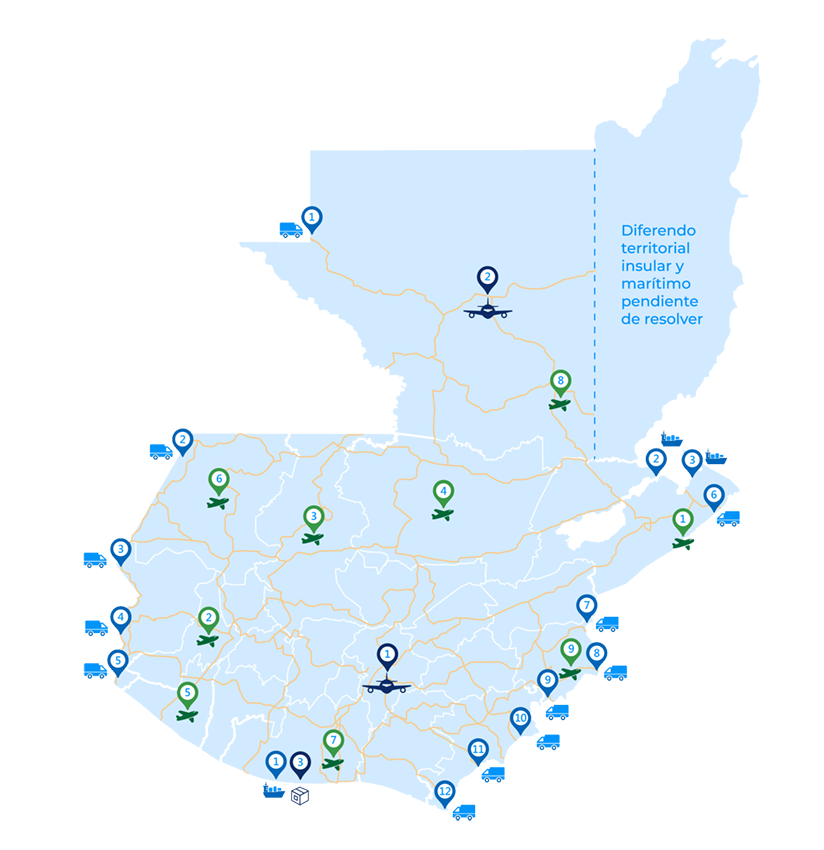
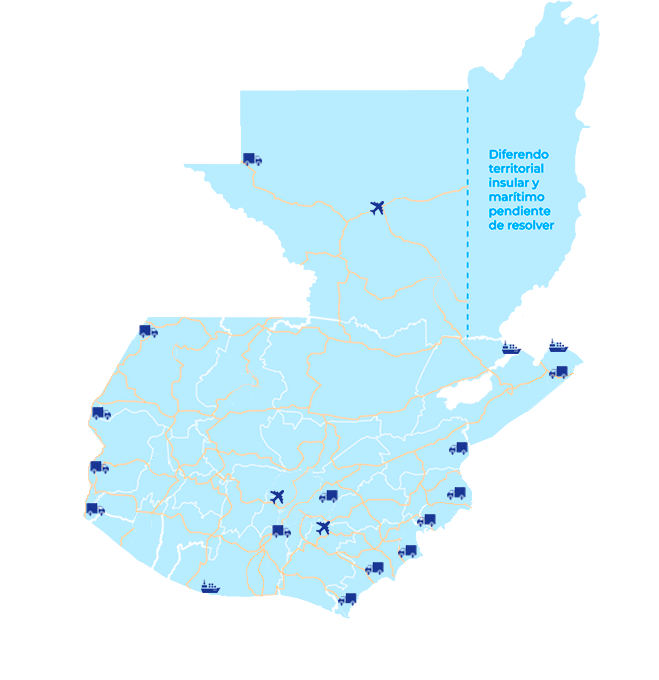
mapa aduanas

diff --git a/src/app/vistas/indicadores-logisticos/indicadores-logisticos.component.ts b/src/app/vistas/indicadores-logisticos/indicadores-logisticos.component.ts
@@ -14,6 +14,7 @@ import { NgModule, CUSTOM_ELEMENTS_SCHEMA }      from '@angular/core';
 import * as $ from 'jquery';
 import { html } from 'd3';
 import { environment } from "../../../environments/environment";
+import { NgbModal } from '@ng-bootstrap/ng-bootstrap';
 
 //import * as d3 from 'd3';
 
@@ -24,6 +25,155 @@ import { environment } from "../../../environments/environment";
   
 })
 export class IndicadoresLogisticosComponent implements OnInit {
+  aduanasInfo=[
+    {
+     "id": 1,
+     "nombre": "Aduana El Ceibo",
+     "depto": "Petén",
+     "tipo": "Terrestre",
+     "direccion": "Kilómetro 657.5 de la Carretera Departamental número RD-PET-13, del Municipio de la Libertad, del Departamento de El Peten"
+    },
+    {
+     "id": 2,
+     "nombre": "Aduana San Cristobal",
+     "depto": "Jutiapa",
+     "tipo": "Terrestre",
+     "direccion": "Kilómetro 175 de la Carretera Centroamericana número CA-1 Or. Aldea San Cristóbal de la Frontera, Municipio de Atescatempa, Departamento de Jutiapa"
+    },
+    {
+     "id": 3,
+     "nombre": "Aduana Pedro De Alvarado",
+     "depto": "Jutiapa",
+     "tipo": "Terrestre",
+     "direccion": "Kilómetro 166 de la Carretera Centroamericana número CA-2 Or. Ciudad Pedro de Alvarado, Municipio de Moyuta, Departamento de Jutiapa"
+    },
+    {
+     "id": 4,
+     "nombre": "Aduana Integrada El Florido",
+     "depto": "Chiquimula",
+     "tipo": "Terrestre",
+     "direccion": "Kilómetro 228 de la Carretera Centroamericana número CA-11. Caserío El Florido, Municipio de Camotán, Departamento de Chiquimula"
+    },
+    {
+     "id": 5,
+     "nombre": "Aduana Integrada Agua Caliente",
+     "depto": "Chiquimula",
+     "tipo": "Terrestre",
+     "direccion": "Kilómetro 240 de Carretera Centroamericana número CA-10. Aldea Agua Caliente, Municipio de Esquipulas, Departamento de Chiquimula"
+    },
+    {
+     "id": 6,
+     "nombre": "Aduana La Ermita",
+     "depto": "Chiquimula",
+     "tipo": "Terrestre",
+     "direccion": "Kilómetro 237 de la Carretera Centroamericana número CA-12. Aldea Anguiatú, Municipio Concepción Las Minas, Departamento de Chiquimula"
+    },
+    {
+     "id": 7,
+     "nombre": "Aduana Integrada Corinto",
+     "depto": "Izabal",
+     "tipo": "Terrestre",
+     "direccion": "Kilometro 303 entrada por aldea Entre Rios Puerto Barrios, Izabal"
+    },
+    {
+     "id": 8,
+     "nombre": "Aduana Valle Nuevo",
+     "depto": "Jutiapa",
+     "tipo": "Terrestre",
+     "direccion": "Kilómetro 129 de la Carretera Centroamericana número CA-8. Caserío Valle Nuevo, Municipio de Jalpatagua, Departamento de Jutiapa"
+    },
+    {
+     "id": 9,
+     "nombre": "Aduana Santo Tomas De Castilla",
+     "depto": "Izabal",
+     "tipo": "Marítima",
+     "direccion": "Dentro del Puerto Maritimo Puerto Santo Tomas de Castilla en la calle principal al muelle a la altura del Kilometro 298 de la carretera Centroamericana CA-9 norte, municipio de Puerto Barrios, Departamento de Izabal"
+    },
+    {
+     "id": 10,
+     "nombre": "Aduana Tecun Uman I",
+     "depto": "San Marcos",
+     "tipo": "Terrestre",
+     "direccion": "2ª Av. y 7ª calle 7-52 zona 2, Municipio de Tecún Umán, Departamento de San Marcos"
+    },
+    {
+     "id": 11,
+     "nombre": "Aduana Puerto Barrios",
+     "depto": "Izabal",
+     "tipo": "Marítima",
+     "direccion": "Dentro del Puerto marítimo Puerto Barrios en la 9ª Calle Final, Colonia Las Champas, Municipio de Puerto Barrios, Departamento de Izabal"
+    },
+    {
+     "id": 12,
+     "nombre": "Aduana Express Aereo",
+     "depto": "Guatemala",
+     "tipo": "Aérea",
+     "direccion": "15 calle “A” y 9a. Avenida frente al Club Aurora zona 13"
+    },
+    {
+     "id": 13,
+     "nombre": "Aduana Melchor De Mencos",
+     "depto": "Petén",
+     "tipo": "Terrestre",
+     "direccion": "Kilometro 557 de la carretera Centroamericana número CA-13 Barrio Fallabon, Melchor de Mencos, Departamento de Petén"
+    },
+    {
+     "id": 14,
+     "nombre": "Aduana El Carmen",
+     "depto": "San Marcos",
+     "tipo": "Terrestre",
+     "direccion": "Kilómetro 290 de la Carretera Centroamericana número CA-2-Occ., Aldea El Carmen, Municipio de Malacatán, Departamento de San Marcos"
+    },
+    {
+     "id": 15,
+     "nombre": "Aduana Puerto Quetzal",
+     "depto": "Escuintla",
+     "tipo": "Marítima",
+     "direccion": "Kilómetro 111 de la Carretera Centroamericana número CA-9 Sur, Puerto Quetzal. Municipio de San José, Departamento de Escuintla"
+    },
+    {
+     "id": 16,
+     "nombre": "Aduana Central",
+     "depto": "Guatemala",
+     "tipo": "Terrestre",
+     "direccion": "Aduana terrestre, 26 Calle 7-25 zona 11, Ciudad de Guatemala., Guatemala"
+    },
+    {
+     "id": 17,
+     "nombre": "Aduana La Mesilla",
+     "depto": "Huehuetenango",
+     "tipo": "Terrestre",
+     "direccion": "Kilómetro 336 de la Carretera Centroamericana número CA-1-Occ. Aldea La Mesilla, Municipio La Democracia, Departamento de Huehuetenango"
+    },
+    {
+     "id": 18,
+     "nombre": "Aduana Tikal",
+     "depto": "Petén",
+     "tipo": "Aérea",
+     "direccion": "Edificio “A”. Aeropuerto Internacional Mundo Maya. Santa Elena, Flores, Departamento de El Petén"
+    },
+    {
+     "id": 19,
+     "nombre": "Aduana Fardos Postales",
+     "depto": "Guatemala",
+     "tipo": "Terrestre",
+     "direccion": "7a. Av. 11-69 zona 1 2o. Nivel, Edificio El Correo Oficina 203, Ciudad de Guatemala, Guatemala"
+    },
+    {
+     "id": 20,
+     "nombre": "Aduana Central De Aviacion",
+     "depto": "Guatemala",
+     "tipo": "Aérea",
+     "direccion": "Aeropuerto Internacional La Aurora, 1er. Nivel, zona 13, Ciudad de Guatemala, Guatemala"
+    },
+    {
+     "id": 21,
+     "nombre": "Aduana Tecun Umán II",
+     "depto": "San Marcos",
+     "tipo": "Terrestre",
+     "direccion": "Km. 251 Carretera Aldea El Triunfo, Tecún Umán, Departamento de San Marcos"
+    }
+   ];
   name = "Angular";
   element = false;
   nombreDepartamento = "";
@@ -42,7 +192,7 @@ export class IndicadoresLogisticosComponent implements OnInit {
   videoplayer!: ElementRef;
   
   
-  constructor(@Inject(PLATFORM_ID) private platformId: Object, private zone: NgZone ,private activatedRoute: ActivatedRoute, private http: HttpClient ) { 
+  constructor(@Inject(PLATFORM_ID) private platformId: Object, private zone: NgZone ,private activatedRoute: ActivatedRoute, private http: HttpClient, private modalService:NgbModal ) { 
     this.activatedRoute.params.subscribe(params => {
      // let deptoId = params['id'];
      
@@ -272,7 +422,58 @@ public toggleVideo(id:number) {
     if (myVideo.paused) myVideo.play();
     else myVideo.pause();
 }
+public infoAduana(id:number){
+  var index =id-1;
+  console.log(id);
+  console.log(this.aduanasInfo[0]);
+  console.log(this.aduanasInfo[index].id);
+  console.log(this.aduanasInfo[index].nombre);
+  console.log(this.aduanasInfo[index].depto);
+  console.log(this.aduanasInfo[index].tipo);
+  console.log(this.aduanasInfo[index].direccion);
+  var informacion ="Nombre:"+ this.aduanasInfo[index].nombre;
+  informacion +="Departamento:"+ this.aduanasInfo[index].depto;
+  informacion +="Tipo:"+ this.aduanasInfo[index].tipo;
+  informacion +="Direccion:"+ this.aduanasInfo[index].direccion;
+  
+  this.openVerticallyCentered(informacion);
+}
 
+openBackDropCustomClass(Infoaduana: any) {
+  this.modalService.open(Infoaduana, { backdropClass: 'light-blue-backdrop' });
+}
+
+openWindowCustomClass(Infoaduana: any) {
+  this.modalService.open(Infoaduana, { windowClass: 'dark-modal' });
+}
+
+openSm(Infoaduana: any) {
+  this.modalService.open(Infoaduana, { size: 'sm' });
+}
+
+openLg(Infoaduana: any) {
+  this.modalService.open(Infoaduana, { size: 'lg' });
+}
+
+openXl(Infoaduana: any) {
+  this.modalService.open(Infoaduana, { size: 'xl' });
+}
+
+
+openVerticallyCentered(Infoaduana: any) {
+  this.modalService.open(Infoaduana, { centered: true });
+}
+
+openScrollableInfoaduana(longInfoaduana: any) {
+  this.modalService.open(longInfoaduana, { scrollable: true ,size: 'xl'});
+}
+
+openModalDialogCustomClass(Infoaduana: any) {
+  this.modalService.open(Infoaduana, { modalDialogClass: 'dark-modal' });
+}
+cerrarModal = (usuario?: any):void => {
+this.modalService.dismissAll(usuario);
+}
 
 }
 

diff --git a/src/app/vistas/indicadores-logisticos/indicadores-logisticos.component.html b/src/app/vistas/indicadores-logisticos/indicadores-logisticos.component.html
@@ -255,24 +255,60 @@
      background-size: cover;
      height: 160vh;
      width:100%;">
-  <div class="container-fluid">
-
-    <div class="row d-flex justify-content-center ml-2 text-center" style="padding-top: 0em;">
-
+  <div class="container ">
+    
+    <div class="row text-center " style="padding-top: 0em;">
       <h1 class="blue-title text-uppercase">aduanas y puertos</h1>
-      <h3 class="blue-title text-uppercase fs-5 text-danger mb-1" style="cursor: pointer;" (click)="menuLogistica( $event );">Regresar al menú</h3>
-      <div class="col-lg-8 col-md-12 col-sm-12">
-        <div class="container ">
-          <img  src="assets/images/varios/aduanas.png" usemap="#workmap" width="100%" class="img-fluid">
-          <map name="workmap" id="ImageMapsCom-image-maps-2022-12-13-211159">
-            <area  alt="" title="" href="http://www.image-maps.com/" shape="rect" coords="898,665,1050,796" style="outline:none;" target="_blank" onclick="modalAduana"    />
-            <area shape="rect" coords="2678,2766,2680,2768" alt="Image Map" style="outline:none;" title="Image Map" href="https://www.image-maps.com/" />
-            </map>
+    <h3 class="blue-title text-uppercase fs-5 text-danger mb-1" style="cursor: pointer;" (click)="menuLogistica( $event );">Regresar al menú</h3>
+    <div class="col-lg-2 col-md-2 col-sm-12"></div>
+      <div class="col-lg-8 col-md-8 col-sm-12">
+        <img  src="assets/images/varios/aduanas.png" usemap="#workmap" width="" class="img">
+        <map name="workmap" id="workmap">
+          <area id="1" alt="Aduana El Ceibo" title="Aduana El Ceibo"  shape="rect" coords="205,124,255,174" style="outline:none; cursor: pointer;" target="_blank" (click)="infoAduana(1)"    />
+          <area  alt="Aduana Pedro De Alvarado" title="Aduana Pedro De Alvarado"  shape="rect" coords="333,591,370,630" style="outline:none; cursor: pointer;" target="_blank" (click)="infoAduana(3)"    />
+          <area  alt="Aduana Integrada El Florido" title="Aduana Integrada El Florido"  shape="rect" coords="458,480,495,519" style="outline:none; cursor: pointer;" target="_blank" (click)="infoAduana(4)"    />
+          <area id="Aduana Integrada Agua Caliente" alt="Aduana Integrada Agua Caliente" title="Aduana Integrada Agua Caliente"  shape="rect" coords="452,437,489,476" style="outline:none; cursor: pointer;" target="_blank" (click)="infoAduana(5)"    />
+          <area  alt="Aduana Integrada Corinto" title="Aduana Integrada Corinto"  shape="rect" coords="551,355,588,394" style="outline:none; cursor: pointer;" target="_blank" (click)="infoAduana(7)"    />
+          <area  alt="Aduana Valle Nuevo" title="Aduana Valle Nuevo"  shape="rect" coords="360,558,397,597" style="outline:none; cursor: pointer;" target="_blank" (click)="infoAduana(8)"    />
+          <area  alt="Aduana Santo Tomas De Castilla" title="Aduana Santo Tomas De Castilla"  shape="rect" coords="500,312,537,351" style="outline:none; cursor: pointer;" target="_blank" (click)="infoAduana(9)"    />
+          <area  alt="Aduana Tecun Uman I" title="Aduana Tecun Uman I"  shape="rect" coords="58,482,95,521" style="outline:none; cursor: pointer;" target="_blank" (click)="infoAduana(10)"    />
+          <area  alt="Aduana Puerto Barrios" title="Aduana Puerto Barrios"  shape="rect" coords="537,315,574,354" style="outline:none; cursor: pointer;" target="_blank" (click)="infoAduana(11)"    />
+          <area  alt="Aduana Express Aereo" title="Aduana Express Aereo"  shape="rect" coords="261,481,297,516" style="outline:none; cursor: pointer;" target="_blank" (click)="infoAduana(12)"    />
+          <area  alt="Aduana Melchor De Mencos" title="Aduana Melchor De Mencos"  shape="rect" coords="436,169,481,216" style="outline:none; cursor: pointer;" target="_blank" (click)="infoAduana(13)"    />
+          <area  alt="Aduana El Carmen" title="Aduana El Carmen"  shape="rect" coords="55,390,101,437" style="outline:none; cursor: pointer;" target="_blank" (click)="infoAduana(14)"    />
+          <area  alt="Aduana Puerto Quetzal" title="Aduana Puerto Quetzal"  shape="rect" coords="191,565,223,610" style="outline:none; cursor: pointer;" target="_blank" (click)="infoAduana(15)"    />
+          <area id="Aduana Central" alt="Aduana Central" title="Aduana Central"  shape="rect" coords="309,476,338,516" style="outline:none; cursor: pointer;" target="_blank" (click)="infoAduana(16)"    />
+          <area  alt="Aduana La Mesilla" title="Aduana La Mesilla"  shape="rect" coords="109,298,153,359" style="outline:none; cursor: pointer;" target="_blank" (click)="infoAduana(17)"    />
+          <area  alt="Aduana Tikal" title="Aduana Tikal"  shape="rect" coords="360,179,404,240" style="outline:none; cursor: pointer;" target="_blank" (click)="infoAduana(18)"    />
+          <area  alt="Aduana Fardos Postales" title="Aduana Fardos Postales"  shape="rect" coords="257,518,291,558" style="outline:none; cursor: pointer;" target="_blank" (click)="infoAduana(19)"    />
+          <area  alt="Aduana Central De Aviacion" title="Aduana Central De Aviacion"  shape="rect" coords="295,519,329,559" style="outline:none; cursor: pointer;" target="_blank" (click)="infoAduana(20)"    />
+          <area  alt="Aduana Tecun Umán II" title="Aduana Tecun Umán II"  shape="rect" coords="54,449,102,485" style="outline:none; cursor: pointer;" target="_blank" (click)="infoAduana(21)"    />
+          <area shape="rect" coords="657,678,659,680" alt="Image Map" style="outline:none; cursor: pointer;" title="Image Map" href="https://www.image-maps.com/" />
+          <area  alt="Aduana San Cristobal" title="Aduana San Cristobal"  shape="poly" coords="426,580,442,570,440,554,407,530,394,554" style="outline:none; cursor: pointer;" target="_blank" (click)="infoAduana(2)"    />
+          <area  alt="Aduana La Ermita" title="Aduana La Ermita"  shape="poly" coords="422,502,419,515,422,529,426,543,439,548,446,545,442,529,438,521,436,513,434,506" style="outline:none; cursor: pointer;" target="_blank" (click)="infoAduana(6)"    />
+          
+        </map>
       </div>
-      </div>
-     
-
+      
     </div>
+    
   </div>
-  <br><br><br><br><br><br><br><br><br>
 </div>
+<ng-template #Infoaduana let-modal>
+  <div class="modal-header">
+      <h4 class="modal-title blue-title">Fuentes de Información</h4>
+      
+      
+      <button class="close" aria-label="close" type="button" (click)="cerrarModal()">
+          <span aria-hidden="true">&times;</span>
+      </button>
+
+  </div>
+  <div class="modal-body">
+      
+  </div>
+  <div class="modal-footer">
+      <a target="_blank" class="btn btn-success" href="assets\images\varios\INFORMACIÓN_VUI.pdf">Descargar</a>
+      <button type="button" class="btn btn-danger" (click)="cerrarModal()">Cerrar</button>
+  </div>
+</ng-template>

diff --git a/src/assets/js/main/imageMapResizer.min.js b/src/assets/js/main/imageMapResizer.min.js
@@ -1,0 +1,8 @@
+/*! Image Map Resizer (imageMapResizer.min.js ) - v1.0.10 - 2019-04-10
+ *  Desc: Resize HTML imageMap to scaled image.
+ *  Copyright: (c) 2019 David J. Bradshaw - dave@bradshaw.net
+ *  License: MIT
+ */
+
+!function(){"use strict";function r(){function e(){var r={width:u.width/u.naturalWidth,height:u.height/u.naturalHeight},a={width:parseInt(window.getComputedStyle(u,null).getPropertyValue("padding-left"),10),height:parseInt(window.getComputedStyle(u,null).getPropertyValue("padding-top"),10)};i.forEach(function(e,t){var n=0;o[t].coords=e.split(",").map(function(e){var t=1==(n=1-n)?"width":"height";return a[t]+Math.floor(Number(e)*r[t])}).join(",")})}function t(e){return e.coords.replace(/ *, */g,",").replace(/ +/g,",")}function n(){clearTimeout(d),d=setTimeout(e,250)}function r(e){return document.querySelector('img[usemap="'+e+'"]')}var a=this,o=null,i=null,u=null,d=null;"function"!=typeof a._resize?(o=a.getElementsByTagName("area"),i=Array.prototype.map.call(o,t),u=r("#"+a.name)||r(a.name),a._resize=e,u.addEventListener("load",e,!1),window.addEventListener("focus",e,!1),window.addEventListener("resize",n,!1),window.addEventListener("readystatechange",e,!1),document.addEventListener("fullscreenchange",e,!1),u.width===u.naturalWidth&&u.height===u.naturalHeight||e()):a._resize()}function e(){function t(e){e&&(!function(e){if(!e.tagName)throw new TypeError("Object is not a valid DOM element");if("MAP"!==e.tagName.toUpperCase())throw new TypeError("Expected <MAP> tag, found <"+e.tagName+">.")}(e),r.call(e),n.push(e))}var n;return function(e){switch(n=[],typeof e){case"undefined":case"string":Array.prototype.forEach.call(document.querySelectorAll(e||"map"),t);break;case"object":t(e);break;default:throw new TypeError("Unexpected data type ("+typeof e+").")}return n}}"function"==typeof define&&define.amd?define([],e):"object"==typeof module&&"object"==typeof module.exports?module.exports=e():window.imageMapResize=e(),"jQuery"in window&&(window.jQuery.fn.imageMapResize=function(){return this.filter("map").each(r).end()})}();
+//# sourceMappingURL=imageMapResizer.map

diff --git a/src/app/vistas/informacion-departamentos/informacion-departamentos.component.ts b/src/app/vistas/informacion-departamentos/informacion-departamentos.component.ts
@@ -1396,4 +1396,5 @@ openModalDialogCustomClass(fuentesInfo: any) {
 cerrarModal = (usuario?: any):void => {
 this.modalService.dismissAll(usuario);
 }
+
 }
